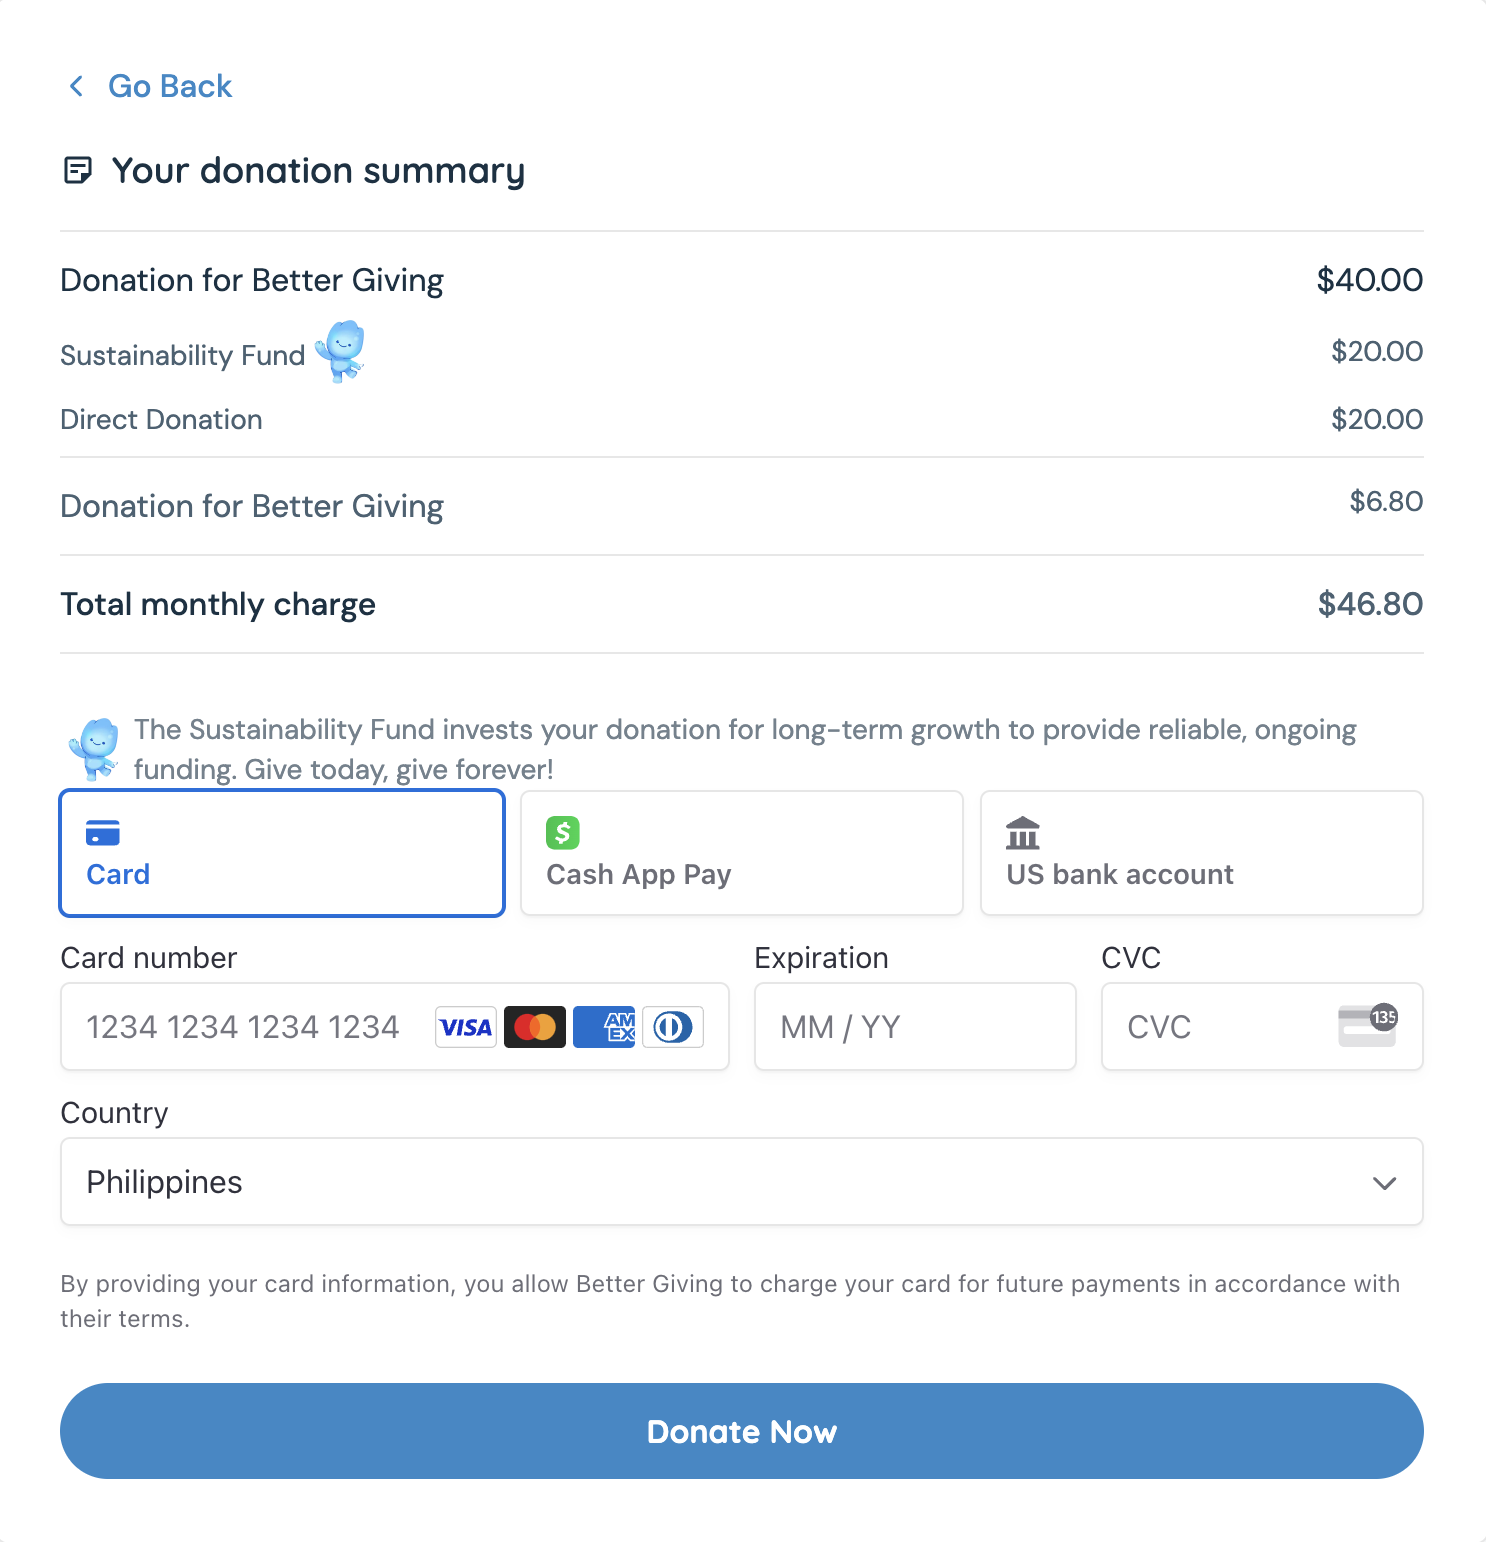
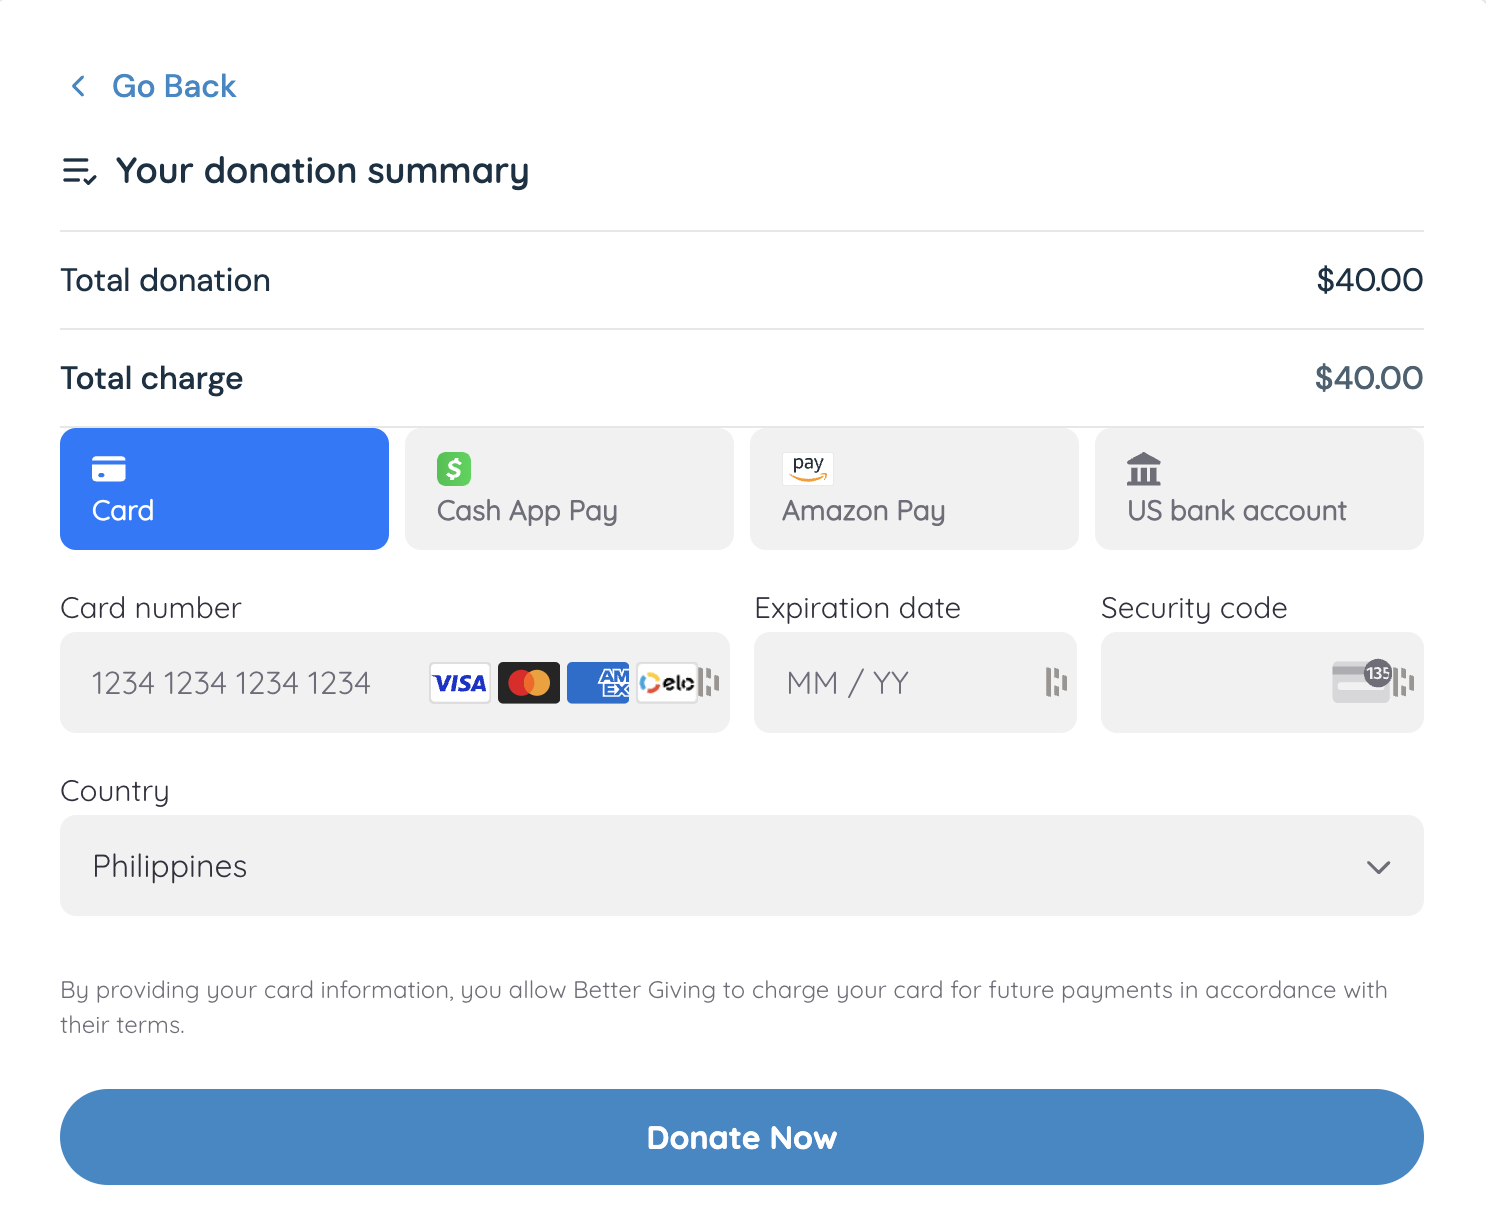
done donation form info

diff --git a/src/pages/informational/NonprofitInfo/DonationFormInfo.tsx b/src/pages/informational/NonprofitInfo/DonationFormInfo.tsx
@@ -21,28 +21,33 @@ const items: TListItem[] = [
     image: { src: laira.sitting, width: 23 },
   },
   {
-    title: "Increase funds raised",
+    title: "Make it yours",
     description:
-      "Increase funds raised: Choose to have your donations invested to provide sustainable funding",
+      "Apply your brand colors, customize wording and options, and easily add to your website.",
     image: { src: laira.jumping, width: 30 },
   },
   {
-    title: "Fundraise for free",
+    title: "Grow your funds",
     description:
-      "Fundraise for free: 100% free. No setup costs, no recurring charges, no platform fees of any kind",
+      "Choose to have your donations saved or invested to provide sustainable funding.",
     image: { src: laira.standing, width: 20 },
   },
 ];
 
 export default function DonationFormInfo({ className = "" }) {
   return (
-    <section className={`${className} grid @6xl:grid-cols-2 gap-x-16`}>
+    <section
+      className={`${className} grid @6xl:grid-cols-2 gap-x-16 content-start`}
+    >
       <h4 className="mb-4 col-span-full text-lg text-blue-d1 uppercase text-center">
         Your all-in-one donation form
       </h4>
-      <h2 className="mb-16 col-span-full text-center text-4xl">
-        Easily accept all types of donations
+      <h2 className="col-span-full text-center text-4xl mb-2">
+        Raise more. Save more. Do less.
       </h2>
+      <p className="col-span-full mb-12 text-center text-xl">
+        100% free. No setup costs, no recurring charges, no platform fees.
+      </p>
 
       <StepsCarousel classes="w-full max-w-lg self-center justify-self-center" />
 
@@ -51,6 +56,13 @@ export default function DonationFormInfo({ className = "" }) {
           <ListItem {...item} key={idx} />
         ))}
       </ul>
+
+      <p className="col-span-full text-center text-xl max-w-3xl justify-self-center mt-4">
+        As a 501(c)(3) public charity, Better Giving accepts donations on your
+        behalf, handling all reporting, processing, and tax receipting. We grant
+        100% of donations directly to your bank account, or save and invest a
+        portion based on your preferences.
+      </p>
     </section>
   );
 }

diff --git a/src/components/donation/StepsCarousel.tsx b/src/components/donation/StepsCarousel.tsx
@@ -1,13 +1,11 @@
 import Image from "components/Image";
 import { Pagination } from "swiper/modules";
 import { Swiper, SwiperSlide } from "swiper/react";
+import checkout from "./screenshots/checkout.png";
 import form from "./screenshots/form.png";
 import result from "./screenshots/result.png";
-import split from "./screenshots/split.png";
-import summary from "./screenshots/summary.png";
-import tip from "./screenshots/tip.png";
 
-const screenshots = [form, split, tip, summary, result];
+const screenshots = [form, checkout, result];
 
 export function StepsCarousel({ classes = "" }) {
   return (
